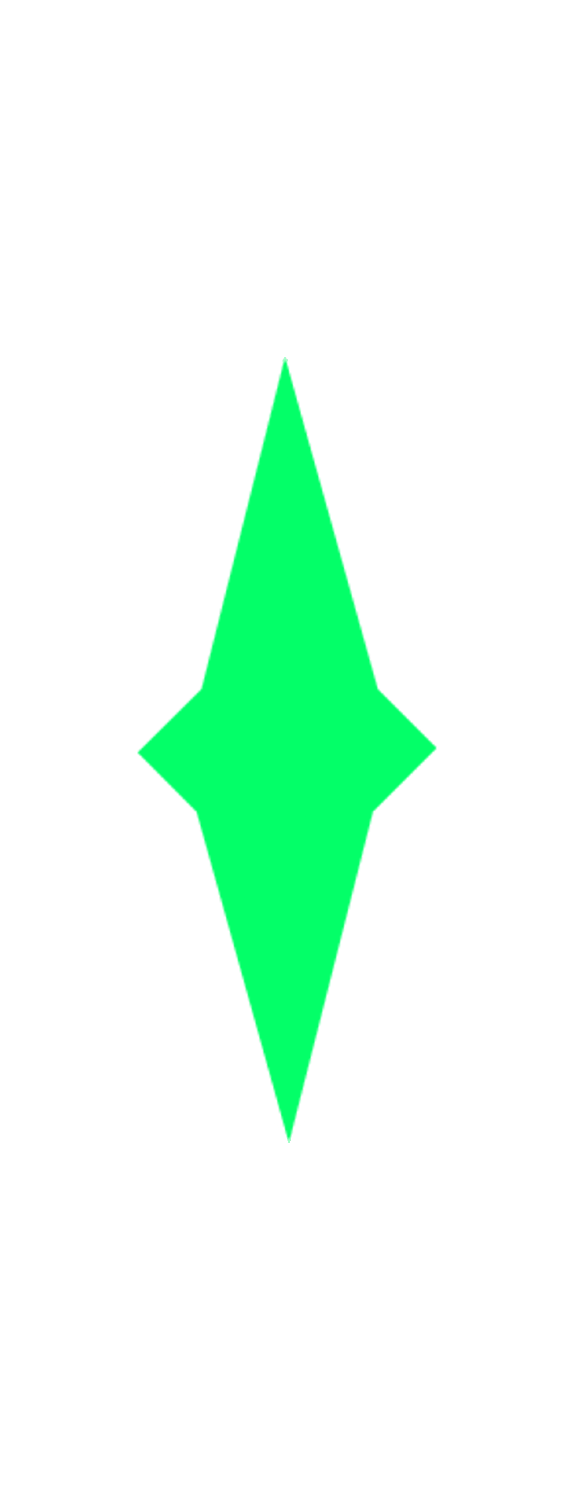
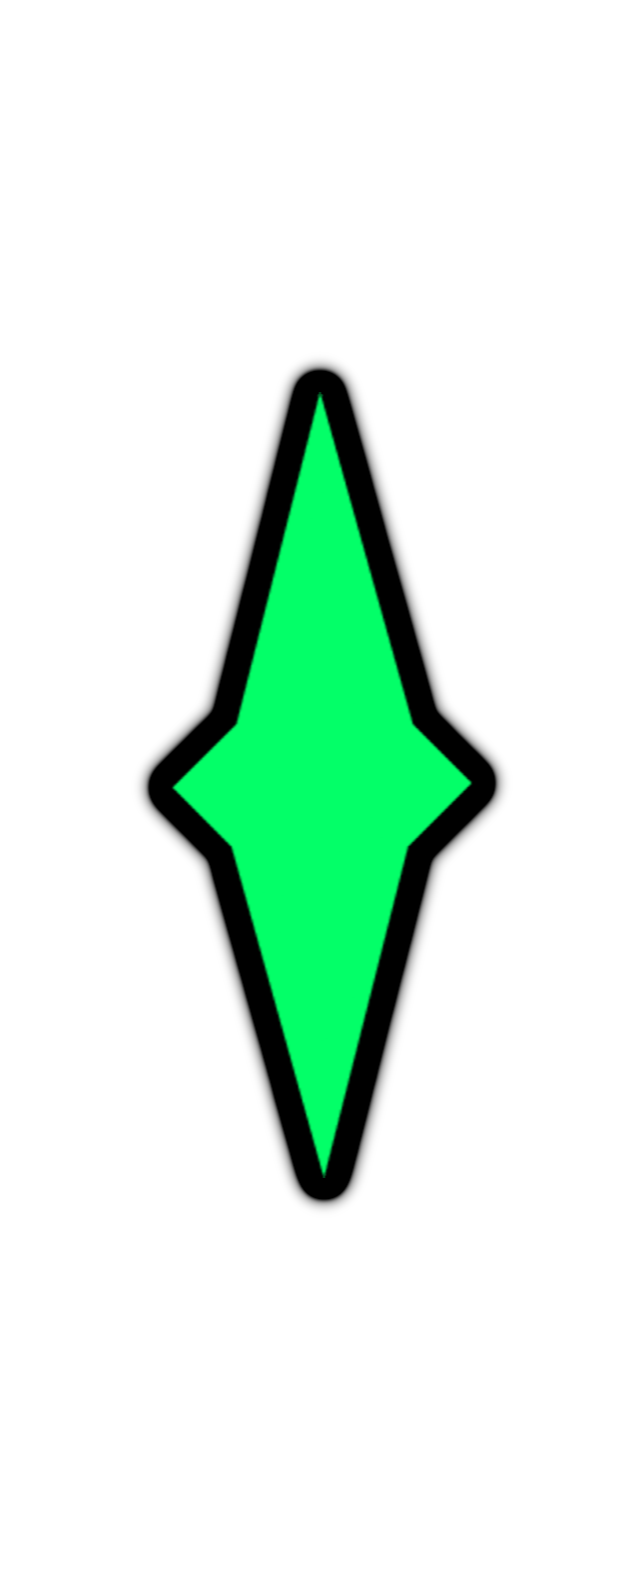
Gem border

Changed region(s): [[0.2077, 0.2147, 0.801, 0.7667]]

diff --git a/src/components/Item.vue b/src/components/Item.vue
@@ -58,7 +58,7 @@
       </template>
     </v-list-item>
     <v-card-item>
-      <v-card-description v-text="item.description"></v-card-description>
+      <v-card-description>{{ item.description }}</v-card-description>
     </v-card-item>
 
     <v-card-actions>
